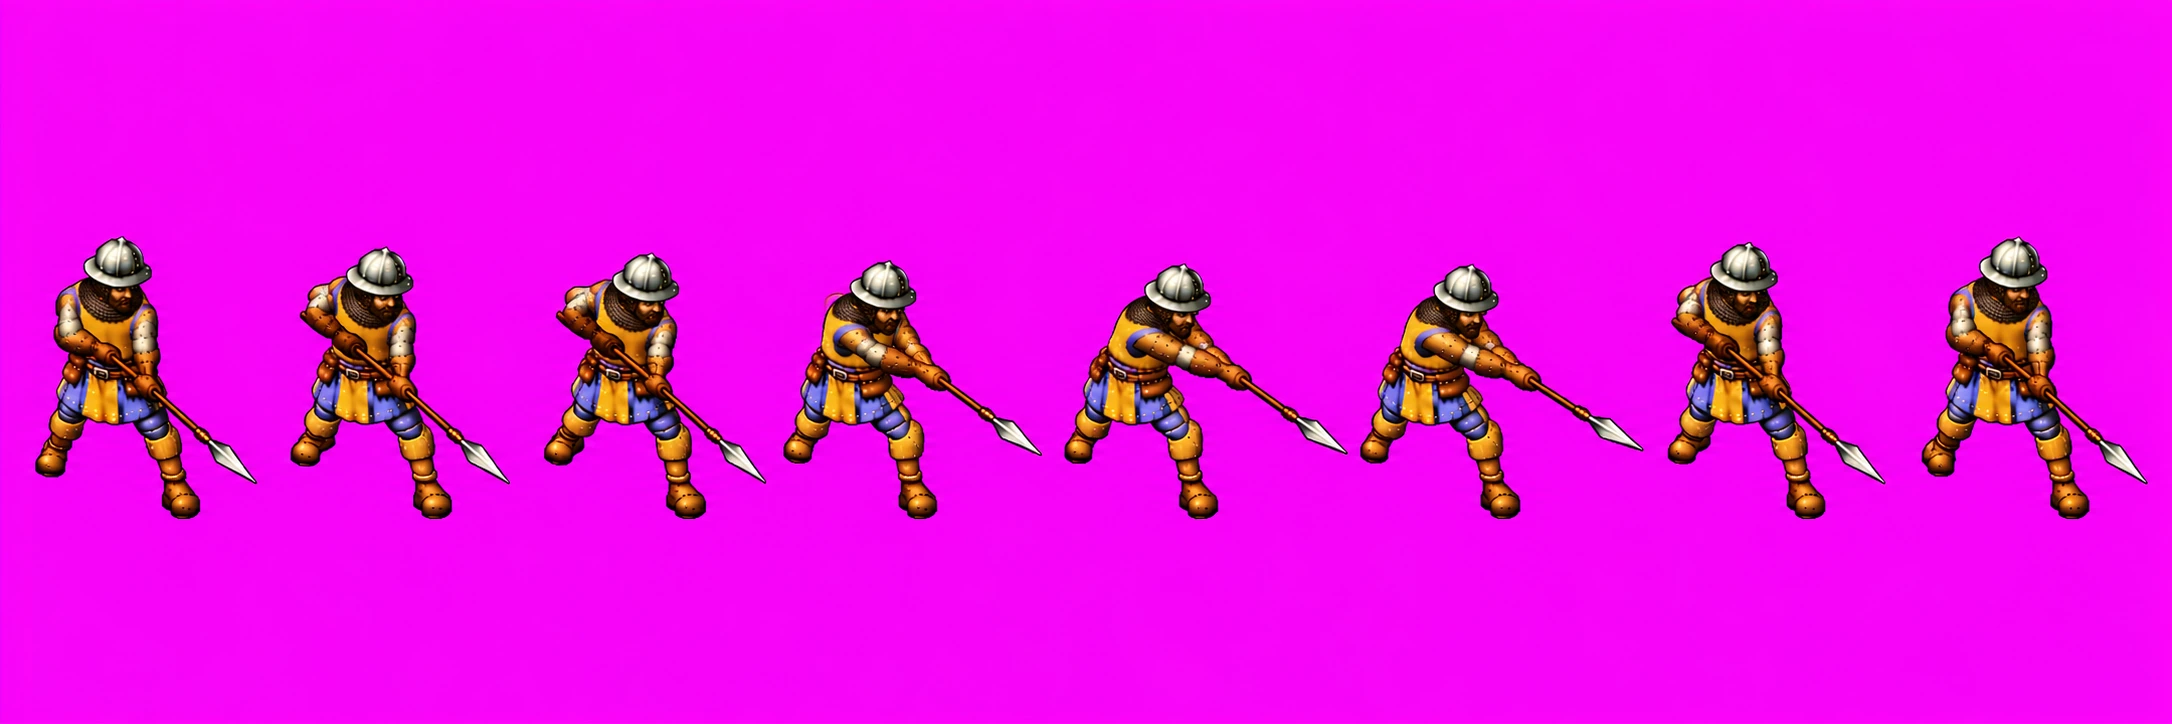
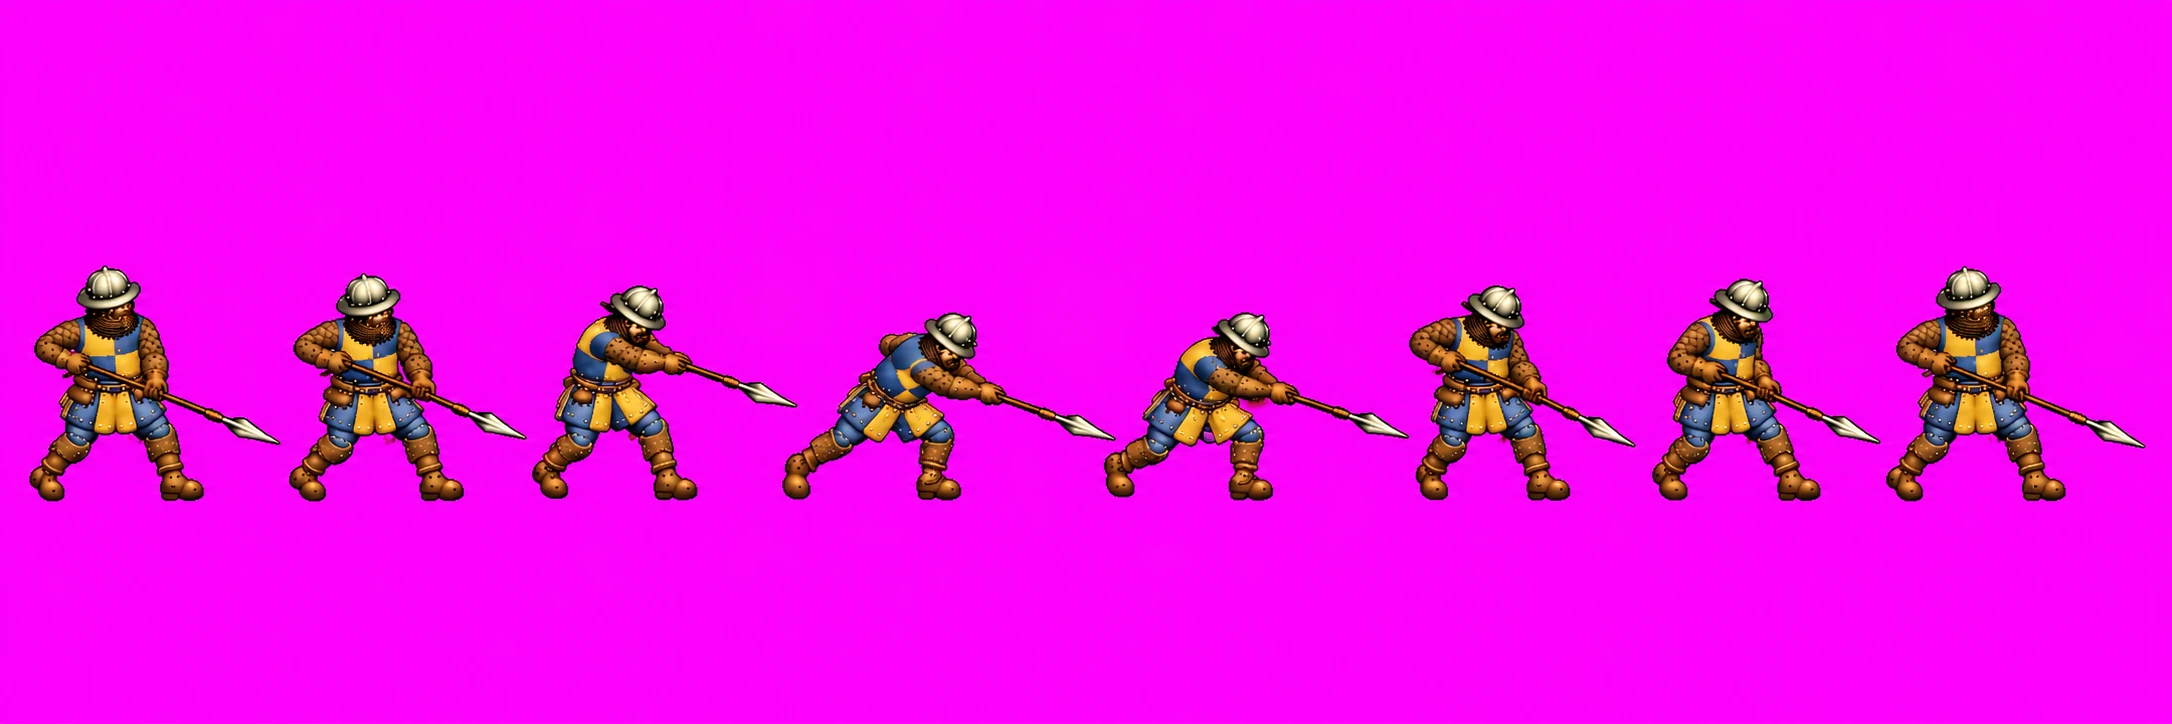
Aanvallen ZO van de speerman in de stijl van het staande vel
Na twee redo's is vel 17 mat, met bruine mouwen en een blauw-gele wapenrok, en houdt het de houding van de vorige
versie: naar de kijker, de speer op één lijn naar rechtsonder, acht beelden. De rest blijft pixel voor pixel hetzelfde.

Changed region(s): [[0.0, 0.3343, 0.9871, 0.7293]]

diff --git a/beelden/beschrijving.js b/beelden/beschrijving.js
@@ -544,7 +544,7 @@
     "speerman": {
      "naam": "speerman",
      "cel": [
-      163,
+      168,
       141
      ],
      "anker": [
@@ -599,7 +599,7 @@
        "fps": 10,
        "herhaal": false,
        "cel": [
-        154,
+        159,
         131
        ],
        "anker": [

diff --git a/ontwerp/beelden-van-de-generator.md b/ontwerp/beelden-van-de-generator.md
@@ -329,7 +329,12 @@ generator van 1,7 MB; op spelmaat is het verschil ruis) en lopen in het spel. Wa
 - **Vel 17, aanvallen ZO** (21 okt): eerst van achteren gezien (de speer wel naar rechtsonder). Goed werd het met:
   "redo 17: Attacking SE again. He faces south-east, down and to the right, TOWARDS the viewer, exactly like the walking
   SE sheet (sheet 9) and the 8th figure of sheet 1: we see his face, his beard and the front of his tabard with the belt
-  buckle; we do NOT see his back. [...]" Nog glimmend, met lichte mouwen; de kleur trekt `generator.cjs` gelijk.
+  buckle; we do NOT see his back. [...]" Nog glimmend, met lichte mouwen. Daarna (22 okt) in de stijl van het staande
+  vel, eerst met zeven beelden en een geheven speer, en goed met: "redo 17 again: this style is right (matte, brown
+  quilted sleeves, the blue and yellow quartered tabard), keep exactly this style. But make 8 frames, not 7, and use the
+  pose of your previous version of sheet 17: he faces south-east, towards the viewer, and the spear stays on one
+  straight line pointing down and to the right in all 8 frames, never raised. [...]" Een stijl verbeteren met behoud
+  van de houding kan dus in twee stappen: eerst de stijl, dan de houding van de vorige versie terug.
 - **Vel 18, vallen Z** (22 okt): goed (geraakt, wankelen, op de knieën, voorover, en liggen met de speer naast zich),
   maar de liggende beelden steeds verder uit elkaar: met gelijke vakken kreeg één beeld twee mannen. Staan de beelden los,
   dan neemt `generator.cjs` ze nu zoals ze staan (`losseBeelden`), en wie valt, zakt op zijn plek in elkaar
@@ -351,7 +356,7 @@ generator van 1,7 MB; op spelmaat is het verschil ruis) en lopen in het spel. Wa
   attacking SE sheet (sheet 17): in frames 1 to 4 we see his face, his beard and the front of his tabard; we do NOT see
   his back. [...] One spear with one spearhead, which keeps pointing down and to the right. No blood. [...]"
 - **Alle 25 vellen zijn er** (22 okt). Voorlopig, met een redo die beter kan: 21 (vallen NW: de punt in beeld 1 naar
-  achteren, twee punten in beeld 2), 17 (aanvallen ZO: de stijl, glimmend en bijna zonder blauw); en eventueel 3 en 4 (lopen ZW en W:
+  achteren, twee punten in beeld 2); en eventueel 3 en 4 (lopen ZW en W:
   de punt naar achteren). De vallen vanaf 18 zijn glimmender en oranjer getekend (de wapenrok bijna zonder blauw);
   `kleurGelijk` trekt de kleur bij, de vorm niet. Bij N (vel 14), van achteren, speelt hetzelfde: dan de punt
   omhoog, van de kijker af.

diff --git a/ontwerp/werklijst.md b/ontwerp/werklijst.md
@@ -32,7 +32,7 @@ de pijplijn van vraag 180 (Q, f; niet in de cloud). **Bezig in sessie `lokaal-da
 **nieuwe weg** (Marcel, 21 okt: "Ok, dan zullen we moeten inventariseren welke gebouwen en poppetjes we nodig hebben. Dan
 kunnen we de andere generator deze 1 voor 1 laten maken. Jij moet dan zorgen dat ze passend worden in het spel"): de
 generator van zijn plaat maakt de bron, wij maken het passend; eerst de inventaris (`beelden-van-de-generator.md`). De
-speerman staat en loopt in het spel in acht richtingen (21 okt, de masterprompt); de aanval in alle acht richtingen en alle 25 vellen staan erin (22 okt); eventueel nog een redo van 21 en 17 (en 3 en 4), `beelden-van-de-generator.md` (in
+speerman staat en loopt in het spel in acht richtingen (21 okt, de masterprompt); de aanval in alle acht richtingen en alle 25 vellen staan erin (22 okt); eventueel nog een redo van 21 (en 3 en 4), `beelden-van-de-generator.md` (in
 het nieuwe gesprek, `beelden-van-de-generator.md`), en eventueel 3 en 4 opnieuw (de punt naar achteren).
 
 **Marcels acht punten van 20 okt** (R, vraag 182 tot 189: egaliseren met de schop, de maat van de huizen, dragers, een
